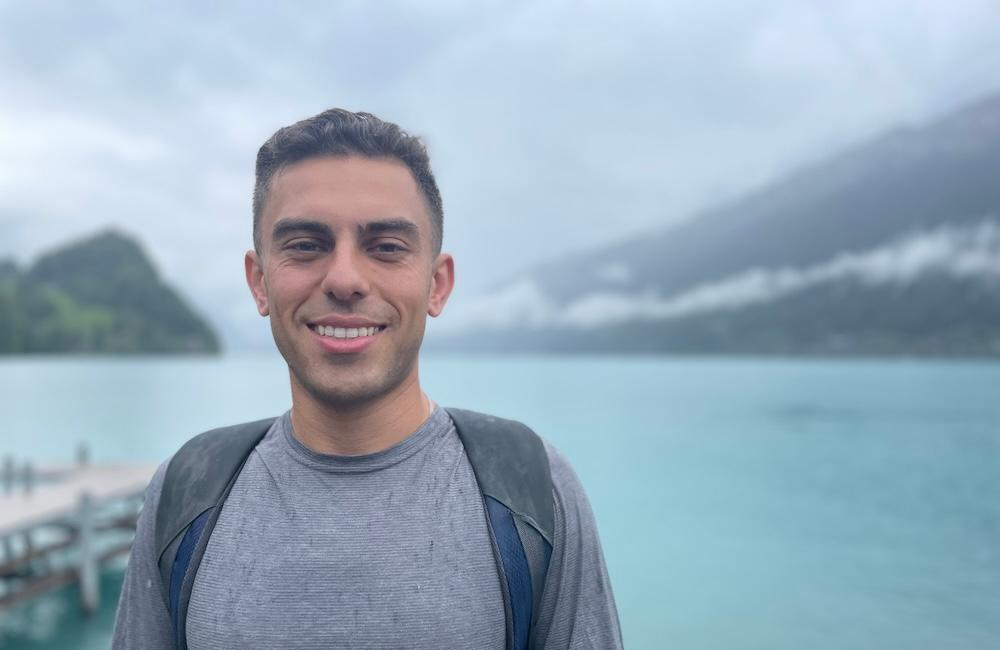
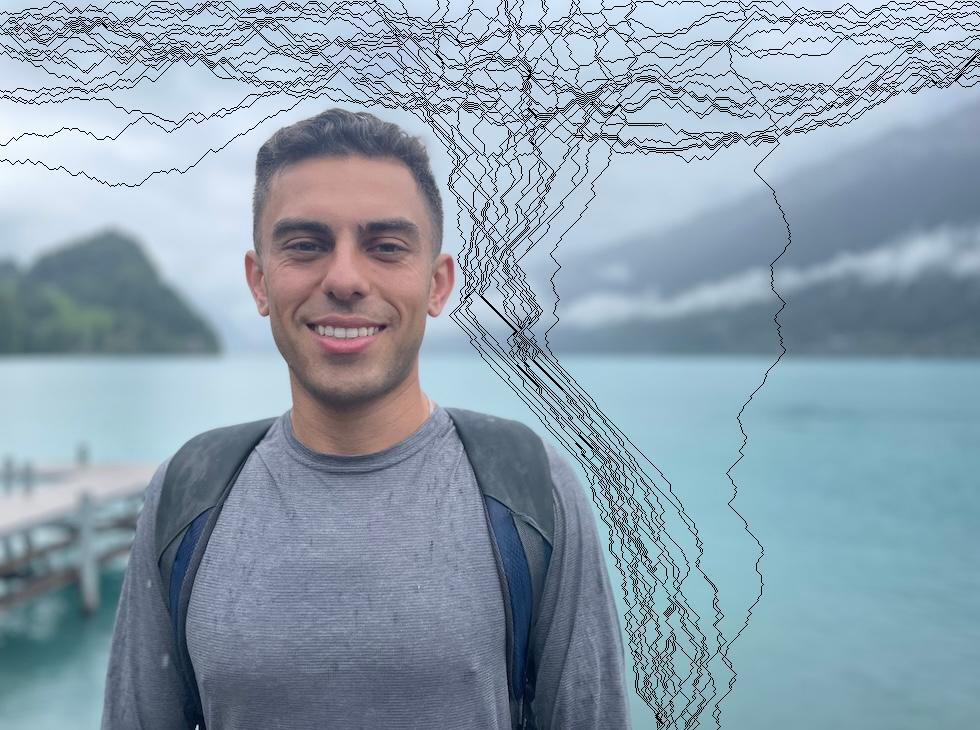
not working testing code from yday

diff --git a/assignment2/SeamCarver.java b/assignment2/SeamCarver.java
@@ -1,11 +1,8 @@
-package graph;
-
 import edu.princeton.cs.algs4.Picture;
-import edu.princeton.cs.algs4.StdPicture;
+// import edu.princeton.cs.algs4.StdPicture;
 import edu.princeton.cs.algs4.DirectedEdge;
 import edu.princeton.cs.algs4.EdgeWeightedDigraph;
 import java.awt.Color;
-import java.util.ArrayList;
 
 public class SeamCarver {
     private Picture pic;
@@ -121,7 +118,9 @@ public class SeamCarver {
         int[] res = new int[height()];
         int resCount = 0;
         for (DirectedEdge e : pathTo) {
-            if (e.from() != 0)
+            if (e.from() == 0 && res[0] == 0)
+                res[resCount] = e.from();
+            else
                 res[resCount++] = e.from();
         }
         return res;
@@ -167,11 +166,8 @@ public class SeamCarver {
             for (int j = 0; j < newPic.width(); j++)
                 if (i < py && j < px)
                     newPic.set(j, i, pic.get(j, i));
-                else if (i == py && j == px)
-                    newPic.set(j, i, pic.get(j, i + 1));
                 else
-                    newPic.set(j, i, pic.get(j, i));
-
+                    newPic.set(j, i, pic.get(j, i + 1));
         }
         pic = newPic;
     }
@@ -184,14 +180,11 @@ public class SeamCarver {
         Picture newPic = new Picture(width() - 1, height());
         for (int i = 0; i < newPic.height(); i++) {
             int py = seam[i] / width(), px = seam[i] % width();
-            System.out.println(py);
             for (int j = 0; j < newPic.width(); j++)
                 if (i < py && j < px)
                     newPic.set(j, i, pic.get(j, i));
-                else if (i == py && j == px)
-                    newPic.set(j, i, pic.get(j + 1, i));
                 else
-                    newPic.set(j, i, pic.get(j, i));
+                    newPic.set(j, i, pic.get(j + 1, i));
         }
         pic = newPic;
     }
@@ -199,47 +192,17 @@ public class SeamCarver {
     // Unit testing (optional)
     public static void main(String[] args) {
         Picture testPic = new Picture(args[0]);
+
         SeamCarver testSC = new SeamCarver(testPic);
-        ArrayList<int[]> rmved = new ArrayList<>();
-
-        for (int i = 0; i < 10; i++) {
-            int[] rmSeam = testSC.findHorizontalSeam();
-            rmved.add(rmSeam);
-            testSC.removeHorizontalSeam(rmSeam);
-            testSC = new SeamCarver(testSC.picture());
+        for (int a : testSC.findVerticalSeam()) {
+            System.out.println(a);
         }
-        // StdPicture.init(testSC.picture().width(), testSC.picture().height());
-        // for (int i = 0; i < testSC.picture().height(); i++)
-        // for (int j = 0; j < testSC.picture().width(); j++)
-        // StdPicture.setRGB(j, i, testSC.picture().get(j, i).getRed(),
-        // testSC.picture().get(j, i).getGreen(),
-        // testSC.picture().get(j, i).getBlue());
-        // StdPicture.show();
-        for (int i = 0; i < 5; i++) {
-            int[] rmSeam = testSC.findVerticalSeam();
-            rmved.add(rmSeam);
-            testSC.removeVerticalSeam(rmSeam);
-            testSC = new SeamCarver(testSC.picture());
-        }
-
-        StdPicture.read(args[0]);
-        StdPicture.show();
-        for (int i = 0; i < rmved.size(); i++)
-            for (int j = 0; j < rmved.get(i).length; j++)
-                StdPicture.setRGB(rmved.get(i)[j] % testPic.width(), rmved.get(i)[j] /
-                        testPic.width(), 255, 0, 0);
-        // StdPicture.show();
-        // testSC.removeHorizontalSeam(testSC.findHorizontalSeam());
-        // testSC.removeVerticalSeam(testSC.findVerticalSeam());
-        // for (int a : testSC.findVerticalSeam()) {
-        // System.out.println(a);
-        // }
-        // System.out.println();
+        System.out.println();
         // for (int a : testSC.findHorizontalSeam()) {
         // System.out.println(a);
         // }
-        // // Remove horizontal layers
-
+        // Remove horizontal layers
+        testSC.removeHorizontalSeam(testSC.findHorizontalSeam());
         // StdPicture.init(testSC.picture().width(), testSC.picture().height());
         // for (int i = 0; i < testSC.picture().height(); i++)
         // for (int j = 0; j < testSC.picture().height(); j++)

diff --git a/assignment2/AcyclicSP.java b/assignment2/AcyclicSP.java
@@ -1,0 +1,40 @@
+import edu.princeton.cs.algs4.EdgeWeightedDigraph;
+import edu.princeton.cs.algs4.DirectedEdge;
+import edu.princeton.cs.algs4.Topological;
+import edu.princeton.cs.algs4.Stack;
+
+public class AcyclicSP {
+    private DirectedEdge[] edgeTo;
+    private double[] distTo;
+
+    public AcyclicSP(EdgeWeightedDigraph G, int s) {
+        edgeTo = new DirectedEdge[G.V()];
+        distTo = new double[G.V()];
+        for (int v = 0; v < G.V(); v++)
+            distTo[v] = Double.POSITIVE_INFINITY;
+        distTo[s] = 0.0;
+        Topological topological = new Topological(G);
+        for (int v : topological.order())
+            for (DirectedEdge e : G.adj(v))
+                relax(e);
+    }
+
+    private void relax(DirectedEdge e) {
+        int v = e.from(), w = e.to();
+        if (distTo[w] > distTo[v] + e.weight()) {
+            distTo[w] = distTo[v] + e.weight();
+            edgeTo[w] = e;
+        }
+    }
+
+    public double distTo(int v) {
+        return distTo[v];
+    }
+
+    public Iterable<DirectedEdge> pathTo(int v) {
+        Stack<DirectedEdge> path = new Stack<DirectedEdge>();
+        for (DirectedEdge e = edgeTo[v]; e != null; e = edgeTo[e.from()])
+            path.push(e);
+        return path;
+    }
+}
